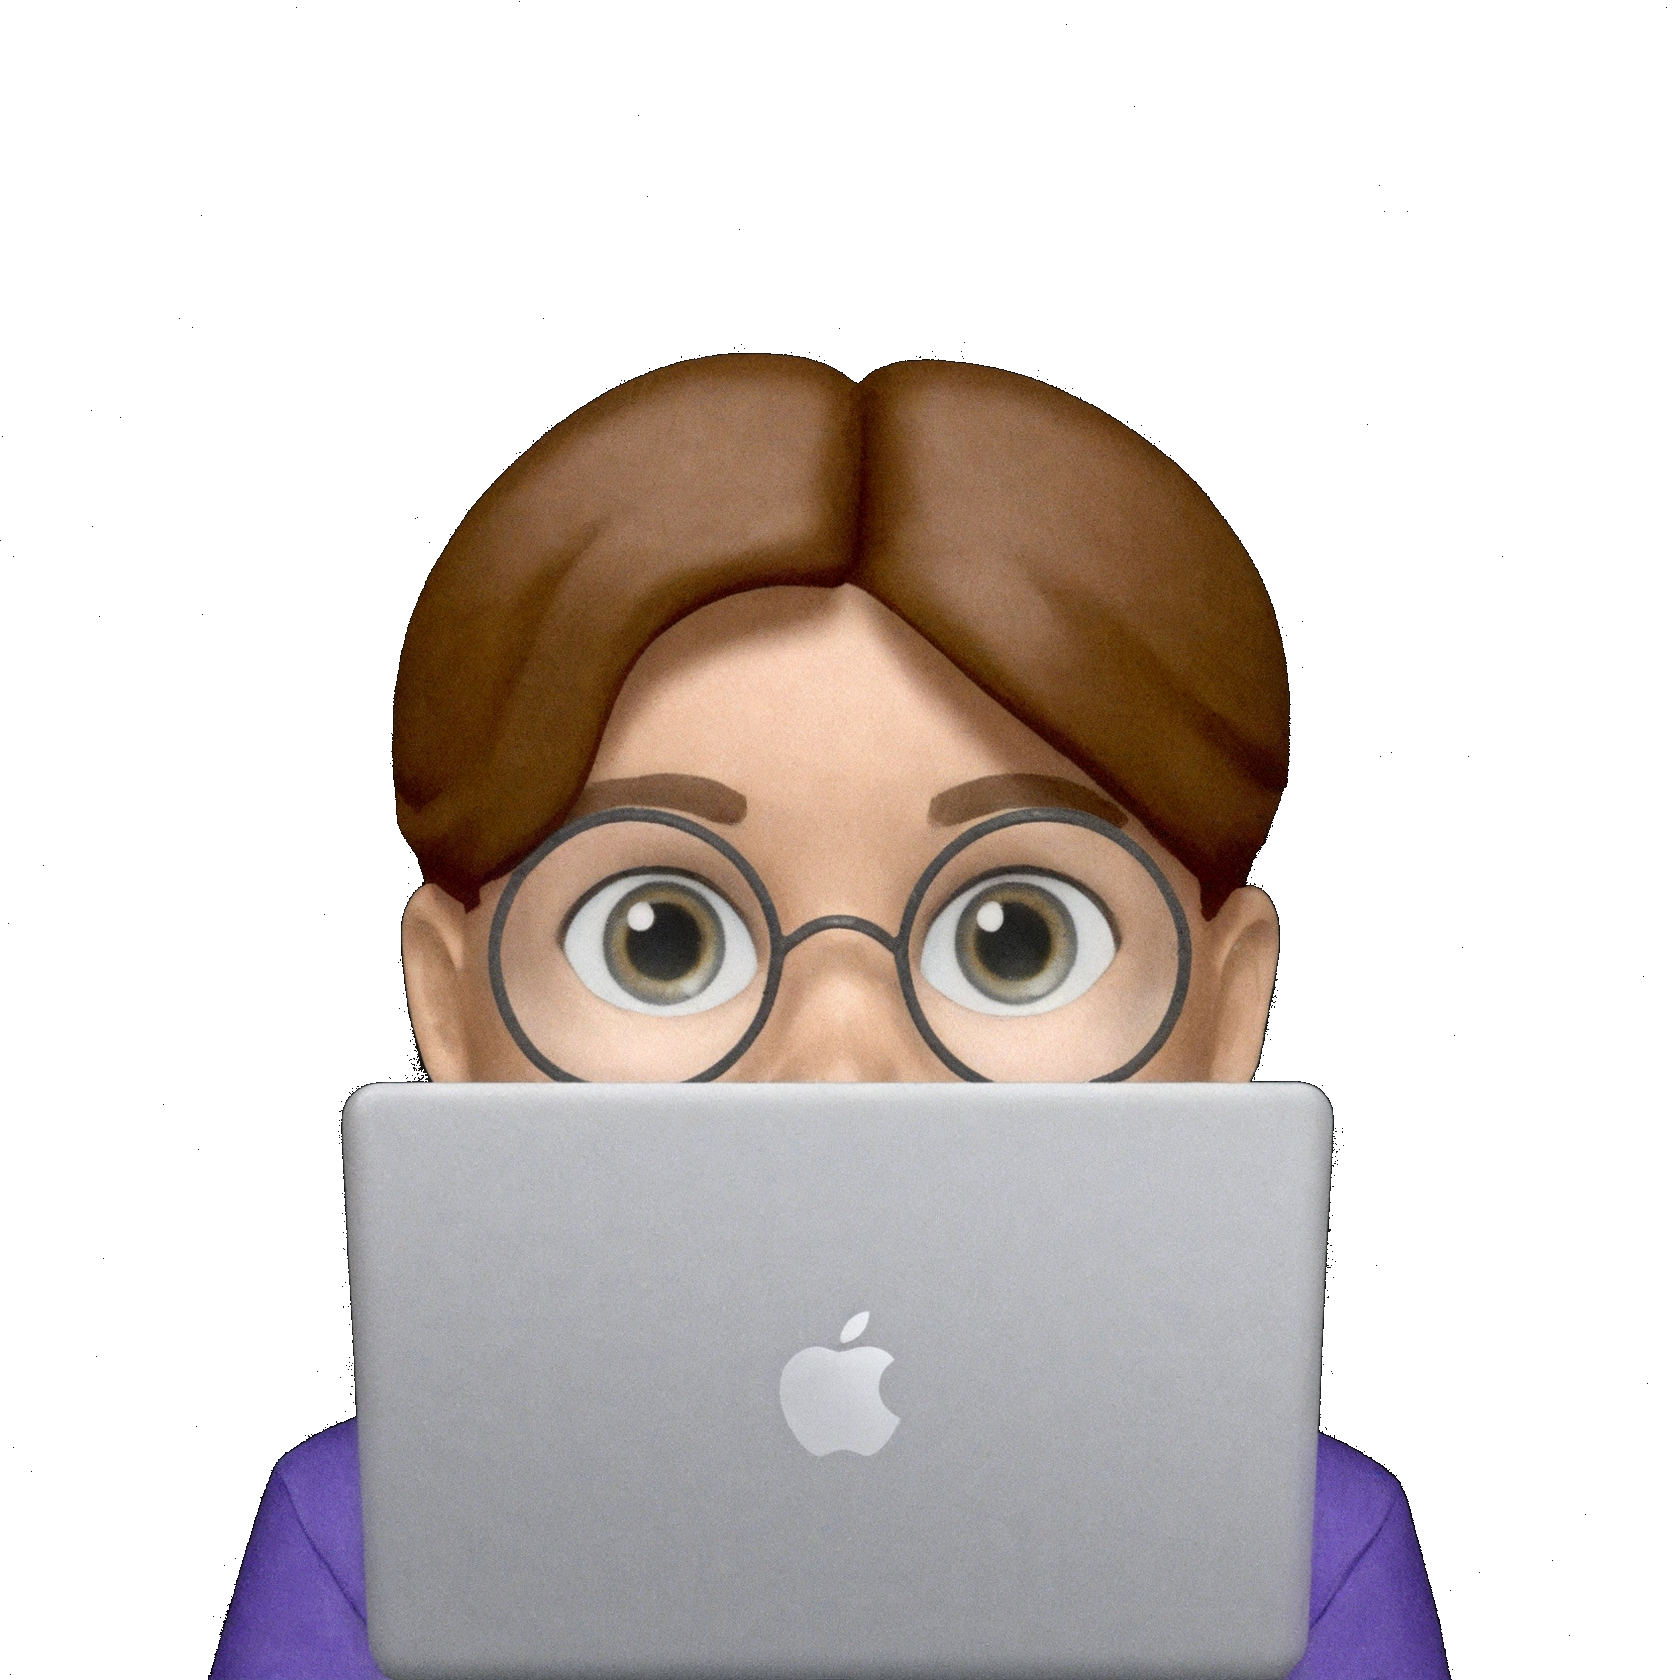
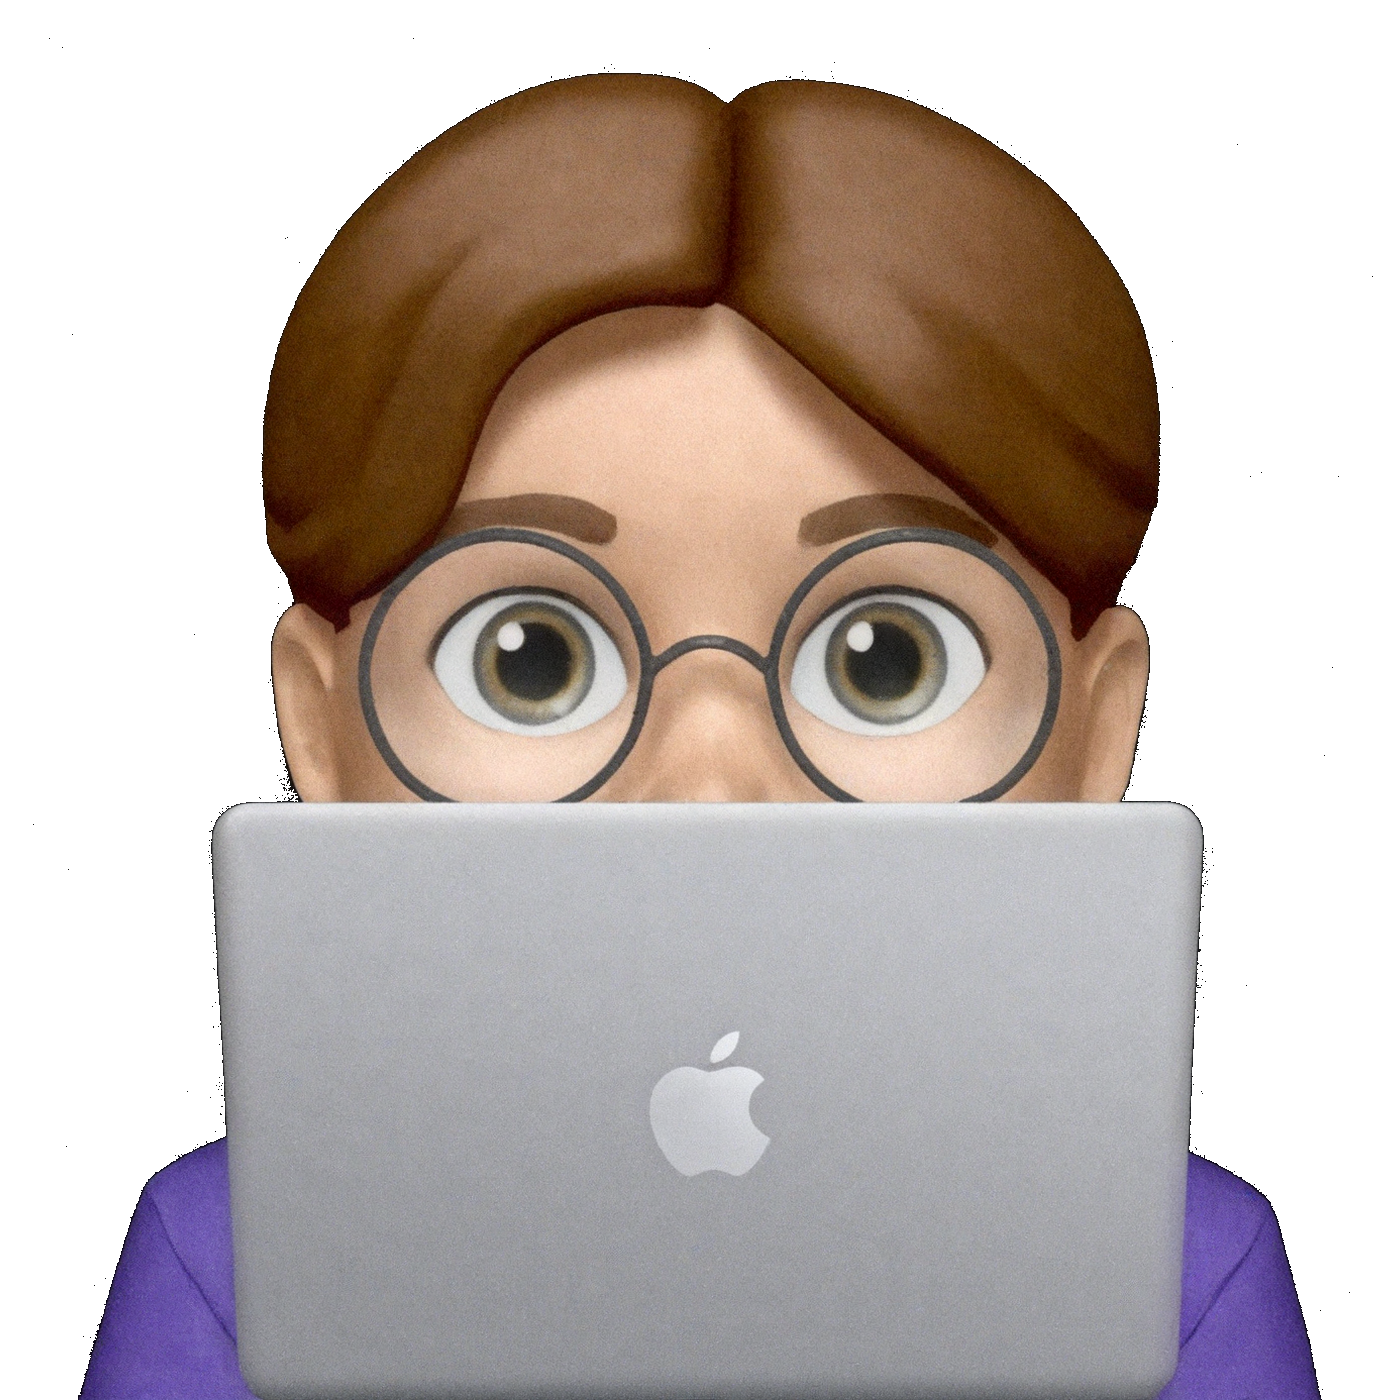
more progress

diff --git a/src/components/TileBackground.tsx b/src/components/TileBackground.tsx
@@ -35,8 +35,9 @@ const TileBackground: React.FC<TileBackgroundProps> = ({
   const currentColorRef = useRef(baseColor);
 
   const tilesRef = useRef<Array<HTMLDivElement | null>>([]);
-  const tileQueuesRef = useRef<Promise<void>[]>([]);
+  const tileReadyTimesRef = useRef<number[]>([]);
   const timeoutsRef = useRef<number[]>([]);
+  const baseColorTimeoutRef = useRef<number | null>(null);
   const lastHoverRef = useRef<GridPosition | null>(null);
 
   useEffect(() => {
@@ -96,52 +97,81 @@ const TileBackground: React.FC<TileBackgroundProps> = ({
     const total = grid.cols * grid.rows;
     if (total <= 0) {
       tilesRef.current = [];
-      tileQueuesRef.current = [];
+      tileReadyTimesRef.current = [];
       return;
     }
 
     tilesRef.current.length = total;
 
-    if (tileQueuesRef.current.length < total) {
-      tileQueuesRef.current = tileQueuesRef.current.concat(
-        Array.from({ length: total - tileQueuesRef.current.length }, () => Promise.resolve()),
-      );
-    } else if (tileQueuesRef.current.length > total) {
-      tileQueuesRef.current.length = total;
+    const now = Date.now();
+    if (tileReadyTimesRef.current.length < total) {
+      const toAdd = total - tileReadyTimesRef.current.length;
+      tileReadyTimesRef.current = tileReadyTimesRef.current.concat(Array(toAdd).fill(now));
+    } else if (tileReadyTimesRef.current.length > total) {
+      tileReadyTimesRef.current = tileReadyTimesRef.current.slice(0, total);
     }
   }, [grid.cols, grid.rows]);
 
-  useEffect(() => {
-    return () => {
-      timeoutsRef.current.forEach((timeoutId) => window.clearTimeout(timeoutId));
-      timeoutsRef.current = [];
-    };
+  const clearAllTimeouts = useCallback(() => {
+    timeoutsRef.current.forEach((timeoutId) => window.clearTimeout(timeoutId));
+    timeoutsRef.current = [];
+    if (baseColorTimeoutRef.current) {
+      window.clearTimeout(baseColorTimeoutRef.current);
+      baseColorTimeoutRef.current = null;
+    }
   }, []);
 
+  useEffect(() => clearAllTimeouts, [clearAllTimeouts]);
+
   const fadeDurationSeconds = useMemo(() => convertDurationToSeconds(fadeDuration), [fadeDuration]);
+  const tileStride = useMemo(() => tileSize + tileGap, [tileGap, tileSize]);
 
-  const enqueueTileTransition = useCallback(
-    (index: number, delaySeconds: number, color: string) => {
-      const runTransition = () =>
-        new Promise<void>((resolve) => {
-          const delayMs = Math.max(delaySeconds, 0) * 1000;
-          const startTimeout = window.setTimeout(() => {
-            const tile = tilesRef.current[index];
-            if (tile) {
-              tile.style.setProperty('--tile-color', color);
-            }
-            const settleTimeout = window.setTimeout(() => resolve(), fadeDurationSeconds * 1000);
-            timeoutsRef.current.push(settleTimeout);
-          }, delayMs);
+  const applyColorToAllTiles = useCallback((color: string) => {
+    tilesRef.current.forEach((tile) => {
+      if (tile) {
+        tile.style.setProperty('--tile-color', color);
+      }
+    });
+    setBaseColor(color);
+    currentColorRef.current = color;
+  }, []);
 
-          timeoutsRef.current.push(startTimeout);
-        });
+  const scheduleBaseColorUpdate = useCallback(
+    (color: string, delayMs: number) => {
+      if (baseColorTimeoutRef.current) {
+        window.clearTimeout(baseColorTimeoutRef.current);
+      }
 
-      const queue = tileQueuesRef.current[index] ?? Promise.resolve();
-      tileQueuesRef.current[index] = queue.then(runTransition);
+      baseColorTimeoutRef.current = window.setTimeout(
+        () => {
+          applyColorToAllTiles(color);
+          baseColorTimeoutRef.current = null;
+        },
+        Math.max(delayMs, 0),
+      );
     },
-    [fadeDurationSeconds],
+    [applyColorToAllTiles],
   );
+
+  const scheduleTileColorUpdate = useCallback((index: number, color: string, delayMs: number) => {
+    const applyColor = () => {
+      const tile = tilesRef.current[index];
+      if (tile) {
+        tile.style.setProperty('--tile-color', color);
+        return;
+      }
+
+      if (index >= tilesRef.current.length) {
+        return;
+      }
+
+      const retryId = window.setTimeout(applyColor, 16);
+      timeoutsRef.current.push(retryId);
+    };
+
+    const timeoutId = window.setTimeout(applyColor, Math.max(0, delayMs));
+    timeoutsRef.current.push(timeoutId);
+  }, []);
 
   useEffect(() => {
     const handleThemeChange = (event: Event) => {
@@ -150,8 +180,9 @@ const TileBackground: React.FC<TileBackgroundProps> = ({
       const targetColor = colors.to;
 
       if (!grid.cols || !grid.rows) {
-        currentColorRef.current = targetColor;
-        setBaseColor(targetColor);
+        clearAllTimeouts();
+        tileReadyTimesRef.current = [];
+        applyColorToAllTiles(targetColor);
         return;
       }
 
@@ -162,40 +193,48 @@ const TileBackground: React.FC<TileBackgroundProps> = ({
           col: Math.floor(grid.cols / 2),
         } as GridPosition);
 
+      const now = Date.now();
+      const fadeDurationMs = fadeDurationSeconds * 1000;
       const totalTiles = grid.cols * grid.rows;
 
       if (initial) {
-        timeoutsRef.current.forEach((timeoutId) => window.clearTimeout(timeoutId));
-        timeoutsRef.current = [];
-        tileQueuesRef.current = Array.from({ length: totalTiles }, () => Promise.resolve());
-
-        tilesRef.current.forEach((tile) => {
-          if (tile) {
-            tile.style.setProperty('--tile-color', targetColor);
-          }
-        });
-
-        currentColorRef.current = targetColor;
-        setBaseColor(targetColor);
+        clearAllTimeouts();
+        tileReadyTimesRef.current = Array(totalTiles).fill(now + fadeDurationMs);
+        applyColorToAllTiles(targetColor);
         return;
       }
 
+      let maxReadyTime = now;
+
       for (let i = 0; i < totalTiles; i += 1) {
-        const delaySeconds = computeDelaySeconds(i, origin, grid.cols, tileSize + tileGap);
-        enqueueTileTransition(i, delaySeconds, targetColor);
+        const baseDelaySeconds = computeDelaySeconds(i, origin, grid.cols, tileStride);
+        const intendedStart = now + baseDelaySeconds * 1000;
+        const previousReadyTime = tileReadyTimesRef.current[i] ?? now;
+        const startTime = Math.max(intendedStart, previousReadyTime);
+
+        scheduleTileColorUpdate(i, targetColor, startTime - now);
+
+        const readyTime = startTime + fadeDurationMs;
+        tileReadyTimesRef.current[i] = readyTime;
+        maxReadyTime = Math.max(maxReadyTime, readyTime);
       }
 
-      const queuesSnapshot = tileQueuesRef.current.map((queue) => queue);
-      Promise.all(queuesSnapshot).then(() => {
-        currentColorRef.current = targetColor;
-        setBaseColor(targetColor);
-      });
+      scheduleBaseColorUpdate(targetColor, maxReadyTime - now);
     };
 
     window.addEventListener(APP_THEME_CHANGE_EVENT, handleThemeChange as EventListener);
     return () =>
       window.removeEventListener(APP_THEME_CHANGE_EVENT, handleThemeChange as EventListener);
-  }, [enqueueTileTransition, grid.cols, grid.rows, tileGap, tileSize]);
+  }, [
+    applyColorToAllTiles,
+    clearAllTimeouts,
+    fadeDurationSeconds,
+    grid.cols,
+    grid.rows,
+    scheduleBaseColorUpdate,
+    scheduleTileColorUpdate,
+    tileStride,
+  ]);
 
   const total = grid.cols * grid.rows;
 

diff --git a/src/pages/Home.tsx b/src/pages/Home.tsx
@@ -252,7 +252,7 @@ export default function Home() {
             onExitComplete={handleCardExited}
           >
             {/* <p className="text-[color:var(--primary)]">Currently ↴</p> */}
-            <p>Currently ↴</p>
+            <p>Currently 🡓</p>
             <p>
               Software Engineer I @{' '}
               <a href="https://www.att.com/" target="_blank" rel="noopener noreferrer">
@@ -285,11 +285,11 @@ export default function Home() {
                 direction="right"
                 delay={1350}
                 triggerExit={cardsExiting}
-                className={`z-100 h-full w-full ${hideCards ? 'hidden' : ''}`}
+                className={`z-100 h-full w-full rounded-lg bg-[var(--card-bg)] ${hideCards ? 'hidden' : ''}`}
                 onExitComplete={handleCardExited}
                 isCustomCard={true}
               >
-                <div>
+                <div className="flex h-full items-end">
                   <img src="memoji.png"></img>
                 </div>
               </AnimatedCard>
